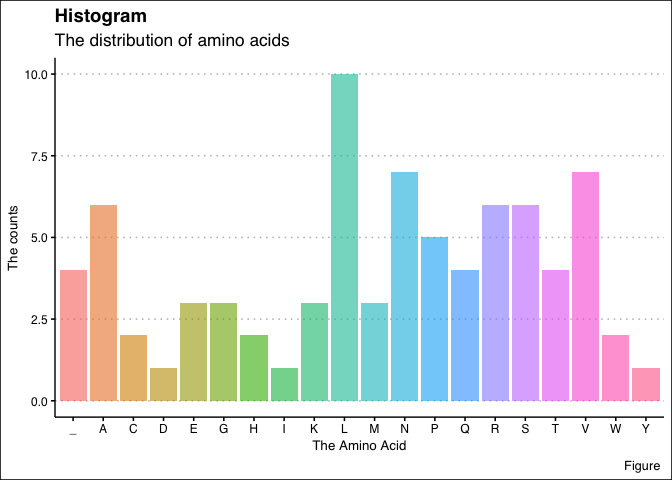
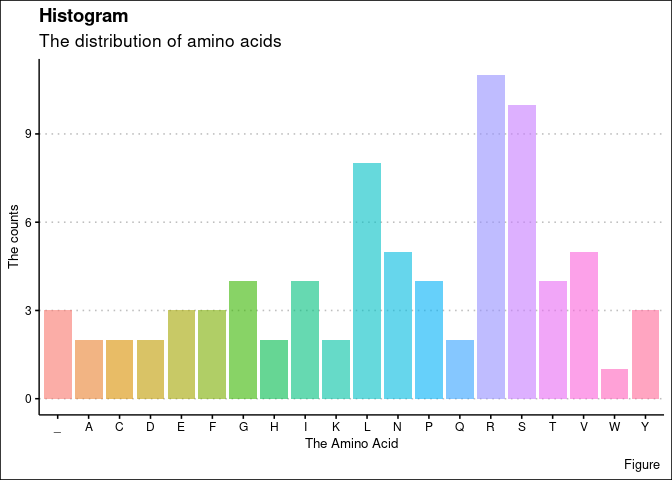
Adding the repository link for the md too, from Flowers 12.16

diff --git a/README.md b/README.md
@@ -33,7 +33,7 @@ common molecular biology challenges.
 
 -   `the_codon_table` Codon to Amino Acid table.
 
-You can learn more about the functions in `vignette(MolBio)`?
+You can learn more about the functions in `vignette(MolBio)`.
 
 If you are new to `MolBio`, the best place to start is this github
 repository.
@@ -54,6 +54,8 @@ devtools::install_github("rforbiodatascience22/group_20_package")
 
 The link to the Github repository is :
 
+<https://github.com/rforbiodatascience22/group_20_package>
+
 ## Usage
 
 **Synthesize DNA with** `make_dna()`
@@ -67,7 +69,7 @@ library(MolBio)
 ``` r
 dna_seq <- make_dna(240)
 dna_seq
-#> [1] "CAGTAGCTAGAAGGGGACTCGAACGCCACCTGGGTTCTCAACTAGGGACCCAGTTGTACCGTCCGCGTAATGCTTGCGAGGCTGCCACCGCTGAATTCAGCCCTTACAACATTGAGATCTGCTGTGAATTGCAAGGTTAAACCTTGGCTGAATAATCGTGCGGTTCTTAGCCAGTGAGTCTACCGTCTTTAACAACACTCGGGAATTGAGATGAAGAGAAACGCACCAGAGATGCACCAG"
+#> [1] "TCTAGCAGGTCATTACACTACCCAGTGAACTAGACCCACGAGCAGCTTCTCTCGGAGAGATCTTCAGAACGGAGTAATAAGGTGCGGGGTGCATAGTCAGATCGAAGTGATCCGGGCATATACCGATTTTATTTGTCTCGCCGGATCAAGACAGCCCTGTGCGGTTTTTGGCCAGTAACCATAGGGAACAACTTCCGACGTCTTTGAGTGCGAGTATTGCCGTGTATCCAACTGACGAAT"
 ```
 
 ------------------------------------------------------------------------
@@ -79,7 +81,7 @@ The second verb is `make_rna()`. It creates a string of RNA
 ``` r
 rna_sequence <- make_rna(dna_seq)
 rna_sequence
-#> [1] "CAGUAGCUAGAAGGGGACUCGAACGCCACCUGGGUUCUCAACUAGGGACCCAGUUGUACCGUCCGCGUAAUGCUUGCGAGGCUGCCACCGCUGAAUUCAGCCCUUACAACAUUGAGAUCUGCUGUGAAUUGCAAGGUUAAACCUUGGCUGAAUAAUCGUGCGGUUCUUAGCCAGUGAGUCUACCGUCUUUAACAACACUCGGGAAUUGAGAUGAAGAGAAACGCACCAGAGAUGCACCAG"
+#> [1] "UCUAGCAGGUCAUUACACUACCCAGUGAACUAGACCCACGAGCAGCUUCUCUCGGAGAGAUCUUCAGAACGGAGUAAUAAGGUGCGGGGUGCAUAGUCAGAUCGAAGUGAUCCGGGCAUAUACCGAUUUUAUUUGUCUCGCCGGAUCAAGACAGCCCUGUGCGGUUUUUGGCCAGUAACCAUAGGGAACAACUUCCGACGUCUUUGAGUGCGAGUAUUGCCGUGUAUCCAACUGACGAAU"
 ```
 
 ------------------------------------------------------------------------
@@ -91,13 +93,13 @@ The third verb is `make_codon()`. It creates separate strings of codons
 ``` r
 codon_produced <- make_codon(rna_sequence)
 codon_produced
-#>  [1] "CAG" "UAG" "CUA" "GAA" "GGG" "GAC" "UCG" "AAC" "GCC" "ACC" "UGG" "GUU"
-#> [13] "CUC" "AAC" "UAG" "GGA" "CCC" "AGU" "UGU" "ACC" "GUC" "CGC" "GUA" "AUG"
-#> [25] "CUU" "GCG" "AGG" "CUG" "CCA" "CCG" "CUG" "AAU" "UCA" "GCC" "CUU" "ACA"
-#> [37] "ACA" "UUG" "AGA" "UCU" "GCU" "GUG" "AAU" "UGC" "AAG" "GUU" "AAA" "CCU"
-#> [49] "UGG" "CUG" "AAU" "AAU" "CGU" "GCG" "GUU" "CUU" "AGC" "CAG" "UGA" "GUC"
-#> [61] "UAC" "CGU" "CUU" "UAA" "CAA" "CAC" "UCG" "GGA" "AUU" "GAG" "AUG" "AAG"
-#> [73] "AGA" "AAC" "GCA" "CCA" "GAG" "AUG" "CAC" "CAG"
+#>  [1] "UCU" "AGC" "AGG" "UCA" "UUA" "CAC" "UAC" "CCA" "GUG" "AAC" "UAG" "ACC"
+#> [13] "CAC" "GAG" "CAG" "CUU" "CUC" "UCG" "GAG" "AGA" "UCU" "UCA" "GAA" "CGG"
+#> [25] "AGU" "AAU" "AAG" "GUG" "CGG" "GGU" "GCA" "UAG" "UCA" "GAU" "CGA" "AGU"
+#> [37] "GAU" "CCG" "GGC" "AUA" "UAC" "CGA" "UUU" "UAU" "UUG" "UCU" "CGC" "CGG"
+#> [49] "AUC" "AAG" "ACA" "GCC" "CUG" "UGC" "GGU" "UUU" "UGG" "CCA" "GUA" "ACC"
+#> [61] "AUA" "GGG" "AAC" "AAC" "UUC" "CGA" "CGU" "CUU" "UGA" "GUG" "CGA" "GUA"
+#> [73] "UUG" "CCG" "UGU" "AUC" "CAA" "CUG" "ACG" "AAU"
 ```
 
 ------------------------------------------------------------------------
@@ -110,7 +112,7 @@ sequence from the codons.
 ``` r
 polypeptide_sequence <- make_polypeptide(codon_produced)
 polypeptide_sequence
-#> [1] "Q_LEGDSNATWVLN_GPSCTVRVMLARLPPLNSALTTLRSAVNCKVKPWLNNRAVLSQ_VYRL_QHSGIEMKRNAPEMHQ"
+#> [1] "SSRSLHYPVN_THEQLLSERSSERSNKVRGA_SDRSDPGIYRFYLSRRIKTALCGFWPVTIGNNFRRL_VRVLPCIQLTN"
 ```
 
 ------------------------------------------------------------------------
